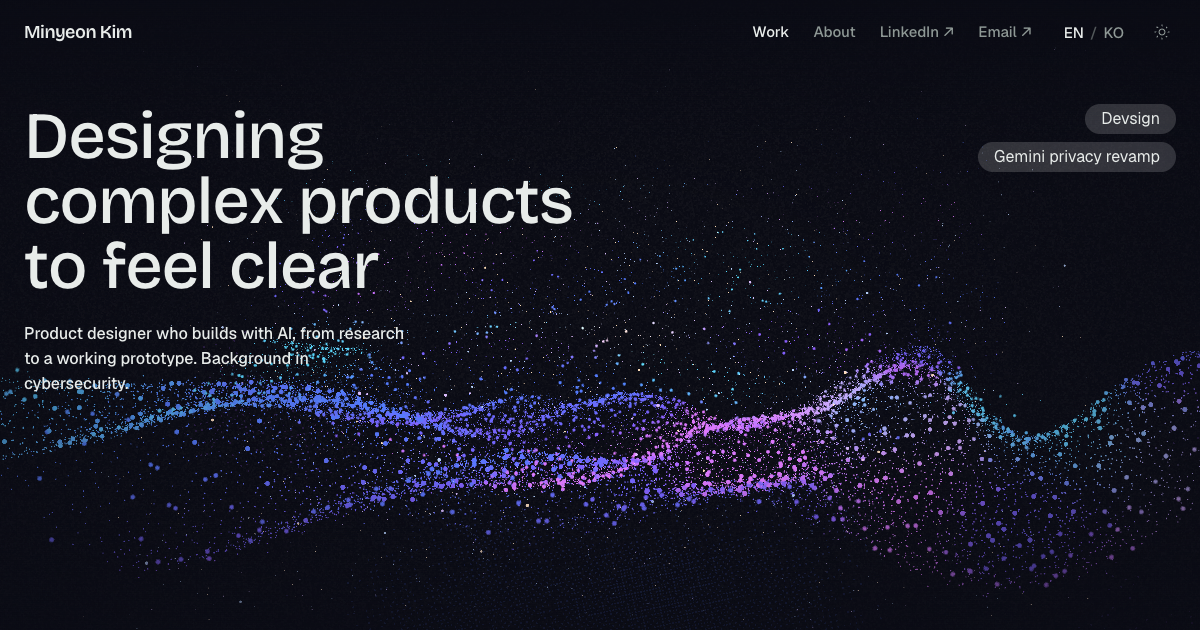
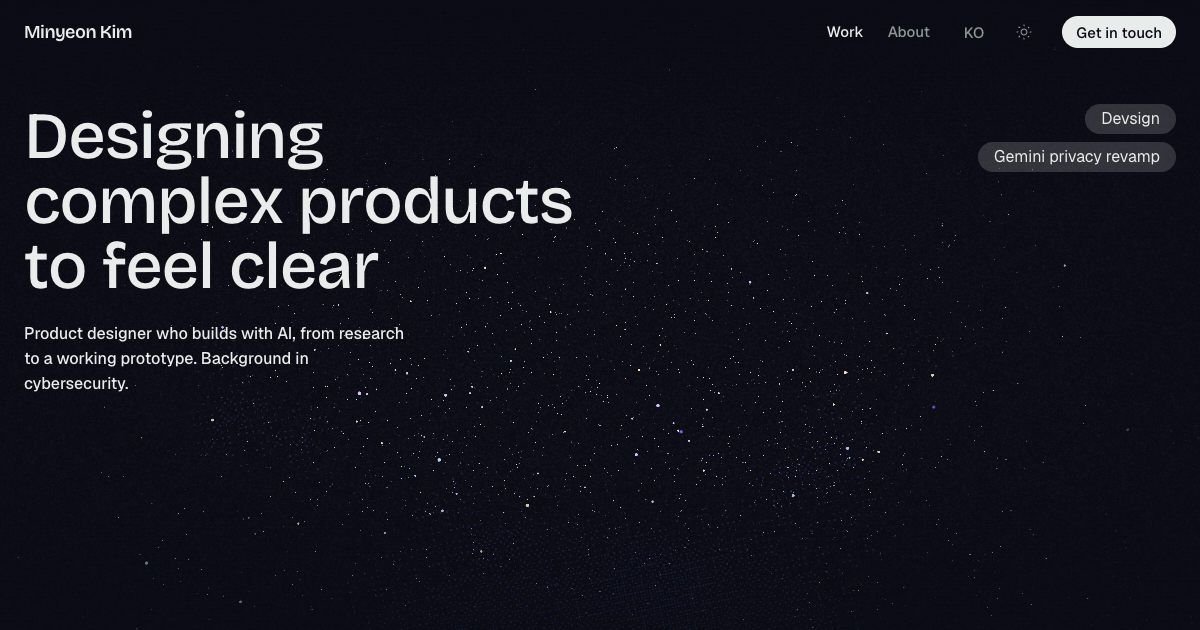
Header: name, two pages, language, theme and one Get in touch button
The bar stays full width when scrolled and gains a blurred ground and hairline,
replacing the floating bar that cut off text passing under it. LinkedIn and
Email leave the header (footer, About and the phone Menu keep them). Share
images retaken with the new header.

diff --git a/app/globals.css b/app/globals.css
@@ -1005,9 +1005,6 @@ details[open]::details-content {
 .intro-surface { padding-inline: var(--project-text-inset); }
 .intro-copy { max-width: none; padding-left: 0; }
 .site-menu-content { max-width: none; }
-@media (min-width: 48rem) {
-  [data-compact] > .site-header-bar { padding-inline: 24px; }
-}
 
 /* Align name, positioning, and prompt along one quiet left edge. */
 .intro-copy {
@@ -1577,8 +1574,6 @@ body:has(.selected-stage[data-gemini]) .project-rail { --picker-canvas: var(--ge
 .selected-stage-picker [role="tab"] { background: inherit; backdrop-filter: none; }
 [data-canvas] .selected-stage-picker { background: var(--devsign-canvas); }
 [data-gemini] .selected-stage-picker { background: var(--gemini-canvas); }
-body:has(.project-detail) header[data-compact] .site-header-bar,
-body:has(.project-selected) header[data-compact] .site-header-bar { background: var(--bg); backdrop-filter: none; }
 @media (max-width: 47.99rem) {
   .case-study:not([data-project="about"]) .case-section { padding-block: 48px; }
 }
@@ -1591,13 +1586,18 @@ body:has(.project-selected) header[data-compact] .site-header-bar { background: 
 .header-menu-trigger:hover, .header-menu-trigger[aria-expanded="true"] { background: transparent; box-shadow: inset 0 0 0 1px color-mix(in srgb, var(--ink) 70%, transparent); color: var(--ink); }
 .header-menu-trigger.theme-toggle { width: 28px; padding: 0; }
 .header-menu-trigger.theme-toggle svg { width: 13px; height: 13px; }
-.lang-toggle { position: relative; display: inline-flex; align-items: center; gap: 2px; height: 28px; padding: 2px; border-radius: 999px; background: light-dark(rgb(14 17 17 / 0.08), rgb(255 255 255 / 0.14)); box-shadow: inset 0 0 0 1px transparent; backdrop-filter: blur(30px); -webkit-backdrop-filter: blur(30px); }
-.lang-toggle-knob { position: absolute; top: 2px; left: 2px; width: 24px; height: 24px; border-radius: 50%; background: color-mix(in srgb, var(--ink) 14%, transparent); transition: translate 250ms var(--ease); }
-.lang-toggle[data-active="ko"] .lang-toggle-knob { translate: 26px 0; }
-.lang-toggle-option { position: relative; display: inline-flex; align-items: center; justify-content: center; width: 24px; height: 24px; border-radius: 50%; color: var(--muted); font-family: var(--font-mono); font-size: 16px; font-weight: 500; letter-spacing: 0.04em; text-decoration: none; transition: color 250ms ease; }
-.lang-toggle-option:hover, .lang-toggle-option[aria-current="page"] { color: var(--ink); }
-.lang-toggle-option:focus-visible { outline: 2px solid var(--accent); outline-offset: 2px; }
-@media (prefers-reduced-motion: reduce) { .lang-toggle-knob { transition: none; } }
+.lang-link { padding: 4px 2px; border-radius: 4px; color: var(--muted); font-size: 15px; font-weight: 500; line-height: 1.4; text-decoration: none; transition: color 150ms ease; }
+.lang-link:hover, .lang-link:focus-visible { color: var(--ink); }
+.lang-link:focus-visible { outline: 2px solid var(--accent); outline-offset: 2px; }
+.header-cta { display: none; align-items: center; height: 32px; margin-left: 8px; padding: 0 14px; border-radius: 999px; background: var(--ink); color: var(--bg); font-size: 15px; font-weight: 500; line-height: 1; white-space: nowrap; text-decoration: none; transition: background-color 150ms ease; }
+.header-cta:hover, .header-cta:focus-visible { background: color-mix(in srgb, var(--ink) 84%, var(--bg)); }
+.header-cta:focus-visible { outline: 2px solid var(--accent); outline-offset: 2px; }
+/* Once scrolled the bar keeps its place and shape; it gets a ground and a hairline, so text passing under it fades instead of being cut off. */
+.site-header-bar { transition: background-color 250ms ease, box-shadow 250ms ease; }
+@media (min-width: 48rem) {
+  .header-cta { display: inline-flex; }
+  [data-compact] .site-header-bar { background: color-mix(in srgb, var(--bg) 86%, transparent); box-shadow: inset 0 -1px 0 var(--line); backdrop-filter: blur(16px); -webkit-backdrop-filter: blur(16px); }
+}
 /* Page links in the bar (md+): plain words, no pills, so the header reads as one quiet line.
    The current page is in ink; the others muted, with the link underline on hover. Phones use the Menu. */
 .site-nav { display: none; margin-right: 16px; }
@@ -1624,9 +1624,6 @@ body:has(.project-selected) header[data-compact] .site-header-bar { background: 
 .header-menu-panel a:hover, .header-menu-panel a[aria-current="page"] { background: color-mix(in srgb, var(--bg) 40%, transparent); box-shadow: inset 0 0 0 1px color-mix(in srgb, var(--ink) 70%, transparent); }
 .header-menu-panel a:focus-visible, .header-menu-trigger:focus-visible { outline: 2px solid var(--accent); outline-offset: 2px; }
 .header-menu-contact { display: flex; flex-direction: column; align-items: flex-end; gap: 8px; margin-top: 16px; }
-@media (min-width: 48rem) {
-  [data-compact] .header-menu-trigger, [data-compact] .lang-toggle { background: transparent; backdrop-filter: none; }
-}
 @media (prefers-reduced-motion: no-preference) {
   .header-menu-panel { animation: header-menu-enter 180ms cubic-bezier(0.2, 0.8, 0.2, 1) both; }
 }
@@ -2520,7 +2517,7 @@ html:lang(ko) :is(.case-eyebrow, .case-media-note, .case-gallery-heading, .case-
 .home-world[data-project="about"] { background: radial-gradient(60% 55% at 70% 28%, rgb(202 215 228 / 0.1), transparent 70%), radial-gradient(50% 50% at 24% 82%, rgb(128 112 183 / 0.14), transparent 70%); }
 .home-backdrop .home-object { transition: opacity 700ms ease; }
 .intro-stage.home-stage { transition: color 500ms ease; }
-header[data-home] .header-menu-trigger, header[data-home] .lang-toggle, header[data-home] .lang-toggle-option { transition-property: background-color, box-shadow, color; }
+header[data-home] .header-menu-trigger { transition-property: background-color, box-shadow, color; }
 /* The world's copy: role top centre, the name large left of centre, the problem bottom right. */
 /* Leaving is quick, up; arriving is staggered (role, name, then the paragraph), so a switch reads as out-then-in. */
 .home-world-role, .home-world-name, .home-world-problem { --stagger: 0ms; position: absolute; margin: 0; color: var(--ink); opacity: 0; translate: 0 16px; filter: blur(6px); pointer-events: none; transition: opacity 380ms ease, translate 380ms var(--ease-out-soft), filter 380ms ease; }
@@ -3332,11 +3329,6 @@ header[data-home] .header-menu-trigger, header[data-home] .lang-toggle, header[d
 
 /* Header right side reads as one line of words: EN / KO and the theme icon drop their pills
    and take the page links' type (Geist 15/500, muted, current in ink). */
-.site-header-bar .lang-toggle { gap: 0; height: auto; padding: 0; background: none; box-shadow: none; backdrop-filter: none; -webkit-backdrop-filter: none; }
-.site-header-bar .lang-toggle-knob { display: none; }
-.site-header-bar .lang-toggle-option { width: auto; height: auto; border-radius: 4px; font-family: var(--font-sans); font-size: 15px; font-weight: 500; letter-spacing: 0; line-height: 1.4; }
-.site-header-bar .lang-toggle-option + .lang-toggle-option::before { content: "/"; margin: 0 6px; color: color-mix(in srgb, var(--muted) 55%, transparent); }
-.site-header-bar .lang-toggle-option:focus-visible { outline-offset: 4px; }
 .site-header-bar .header-menu-trigger.theme-toggle { margin-left: 8px; color: var(--muted); background: none; box-shadow: none; backdrop-filter: none; -webkit-backdrop-filter: none; }
 .site-header-bar .header-menu-trigger.theme-toggle:hover { color: var(--ink); background: none; box-shadow: none; }
 .site-header-bar .header-menu-trigger.theme-toggle svg { width: 16px; height: 16px; }

diff --git a/components/site-header.tsx b/components/site-header.tsx
@@ -6,26 +6,22 @@ import { HeaderShell } from "./header-shell";
 import { SiteMenu } from "./site-menu";
 import { ThemeToggle } from "./theme-toggle";
 import { LangToggle } from "./lang-toggle";
-import { SiteNav } from "./site-nav";
+import { GetInTouch, SiteNav } from "./site-nav";
 
-// The name at the left edge; the page links, EN | KO and theme at the right
-// edge. The links are always in view on md+; phones fold them into the Menu.
+// The name at the left edge; the two pages, the other language, theme and the
+// one clear action (Get in touch) at the right. Phones fold the links into the Menu.
 export async function SiteHeader() {
   const hasResume = fs.existsSync(path.join(process.cwd(), "public", site.resumeUrl));
 
   return (
     <HeaderShell>
-      {/*
-        Controls sit at the screen edges (not the content width). After a little
-        scroll (md+) they fold into one compact floating pill; inside it the
-        buttons drop their own pill backgrounds, so there is never a pill in a pill.
-      */}
-      <div className="site-header-bar mx-auto grid max-w-full grid-cols-[auto_1fr] items-center gap-2 py-[18px] transition-[max-width,margin,padding,background-color,border-color] duration-400 ease-standard md:group-data-compact/header:my-1 md:group-data-compact/header:max-w-[720px] md:group-data-compact/header:rounded-full md:group-data-compact/header:bg-surface/70 md:group-data-compact/header:py-1 md:group-data-compact/header:backdrop-blur-md">
+      <div className="site-header-bar grid min-h-[64px] grid-cols-[auto_1fr] items-center gap-2">
         <HomeLink className="header-name whitespace-nowrap">{site.name}</HomeLink>
         <div className="flex items-center justify-end gap-2">
-          <SiteNav email={site.email} linkedinUrl={site.linkedinUrl} resumeUrl={hasResume ? site.resumeUrl : undefined} />
+          <SiteNav resumeUrl={hasResume ? site.resumeUrl : undefined} />
           <LangToggle />
           <ThemeToggle />
+          <GetInTouch email={site.email} />
           <SiteMenu
             contact={{
               email: site.email,

diff --git a/components/site-nav.tsx b/components/site-nav.tsx
@@ -8,9 +8,7 @@ import { localeOf, localize, stripLocale, ui } from "@/lib/i18n";
 
 // The page links, always in view at the top (md+): there are only a few, so
 // they don't hide behind a Menu button. Phones keep the Menu (SiteMenu).
-type Props = { email: string; linkedinUrl: string; resumeUrl?: string };
-
-export function SiteNav({ email, linkedinUrl, resumeUrl }: Props) {
+export function SiteNav({ resumeUrl }: { resumeUrl?: string }) {
   const pathname = usePathname() ?? "/";
   const locale = localeOf(pathname);
   const page = stripLocale(pathname);
@@ -22,9 +20,13 @@ export function SiteNav({ email, linkedinUrl, resumeUrl }: Props) {
         <li aria-current={current(page === "/" || page.startsWith("/work/"))}><HomeLink>{t.work}</HomeLink></li>
         <li><Link href={localize("/about/", locale)} aria-current={current(page.startsWith("/about"))}>{t.about}</Link></li>
         {resumeUrl && <li><a href={withBase(resumeUrl)}>{t.resume}</a></li>}
-        {linkedinUrl && <li><a href={linkedinUrl}>LinkedIn<span aria-hidden="true"> ↗</span></a></li>}
-        {email && <li><a href={`mailto:${email}`}>{t.email}<span aria-hidden="true"> ↗</span></a></li>}
       </ul>
     </nav>
   );
+}
+
+// The header's one filled button (md+): the thing a visitor is most likely here to do.
+export function GetInTouch({ email }: { email: string }) {
+  const locale = localeOf(usePathname() ?? "/");
+  return <a href={`mailto:${email}`} className="header-cta press">{ui[locale].getInTouch}</a>;
 }

diff --git a/components/lang-toggle.tsx b/components/lang-toggle.tsx
@@ -4,22 +4,14 @@ import Link from "next/link";
 import { usePathname } from "next/navigation";
 import { localeOf, localize, stripLocale, ui } from "@/lib/i18n";
 
-// EN | KO beside the theme toggle: two round faces in one pill, with a filled
-// round knob that slides behind the current language. Each face links to the
-// same page in the other language.
+// The other language, as one quiet link to the same page in that language.
 export function LangToggle() {
   const pathname = usePathname() ?? "/";
   const locale = localeOf(pathname);
-  const page = stripLocale(pathname);
-  const t = ui[locale];
+  const other = locale === "en" ? "ko" : "en";
   return (
-    <nav aria-label={t.languageLabel} className="lang-toggle" data-active={locale}>
-      <span className="lang-toggle-knob" aria-hidden="true" />
-      {(["en", "ko"] as const).map((code) => (
-        <Link key={code} href={localize(page, code)} hrefLang={code} lang={code} aria-current={locale === code ? "page" : undefined} className="press lang-toggle-option">
-          {code === "en" ? "EN" : "KO"}
-        </Link>
-      ))}
-    </nav>
+    <Link href={localize(stripLocale(pathname), other)} hrefLang={other} lang={other} aria-label={ui[locale].languageLabel} className="lang-link">
+      {other === "en" ? "EN" : "KO"}
+    </Link>
   );
 }

diff --git a/lib/i18n.ts b/lib/i18n.ts
@@ -22,6 +22,7 @@ export const ui = {
     work: "Work",
     about: "About",
     email: "Email",
+    getInTouch: "Get in touch",
     linkedin: "LinkedIn",
     resume: "Resume",
     language: "한국어",
@@ -101,6 +102,7 @@ export const ui = {
     work: "작업",
     about: "소개",
     email: "이메일",
+    getInTouch: "연락하기",
     linkedin: "LinkedIn",
     resume: "이력서",
     language: "English",
